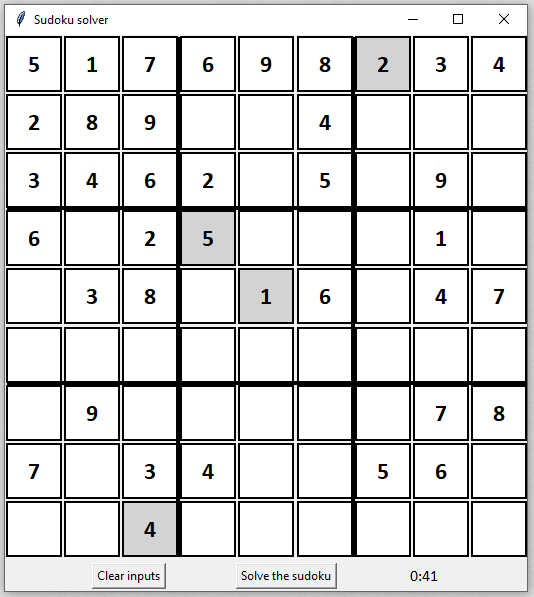
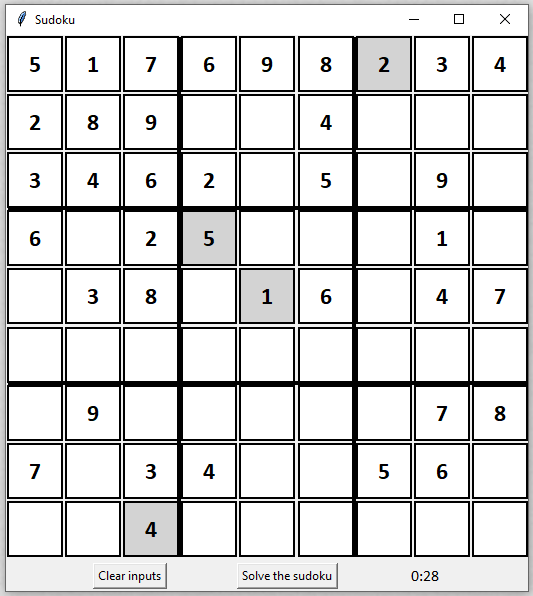
Modified the window name

diff --git a/Sudoku.py b/Sudoku.py
@@ -21,7 +21,7 @@ class Gui:
         self.flagdf=[[0 for x in range(9)] for row in range(9)]
 
         self.root = tk.Tk()
-        self.root.title("Sudoku solver")
+        self.root.title("Sudoku")
         
         #code necessary to center the window
         
